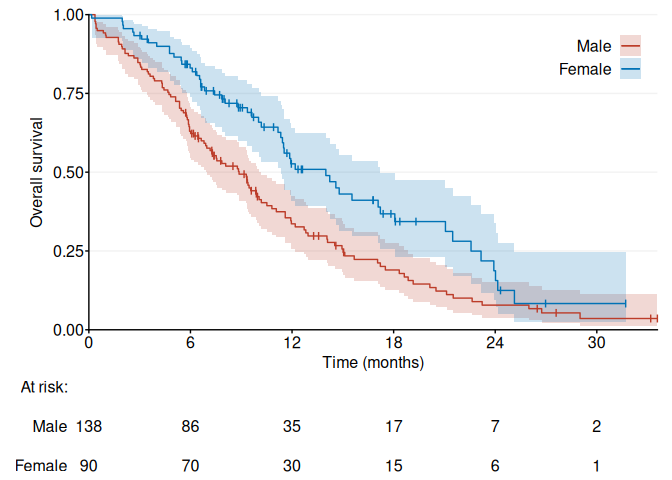
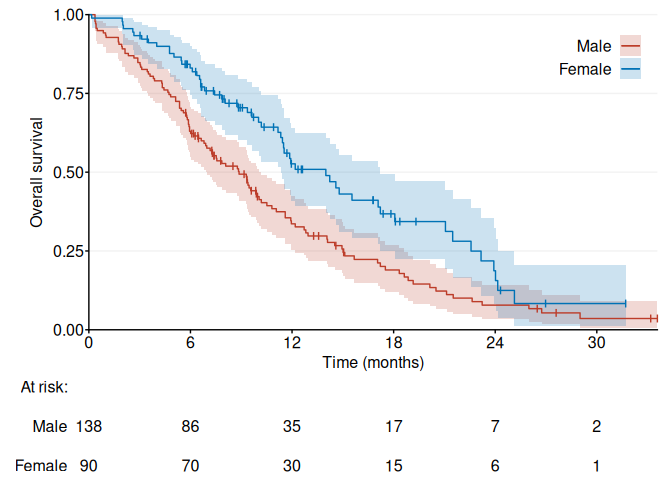
v0.11.0

diff --git a/docs/reference/ggKM.html b/docs/reference/ggKM.html
@@ -9,7 +9,7 @@ table."></head><body>
 
     <a class="navbar-brand me-2" href="../index.html">ggKaplanMeier</a>
 
-    <small class="nav-text text-muted me-auto" data-bs-toggle="tooltip" data-bs-placement="bottom" title="">0.10.1</small>
+    <small class="nav-text text-muted me-auto" data-bs-toggle="tooltip" data-bs-placement="bottom" title="">0.11.0</small>
 
 
     <button class="navbar-toggler" type="button" data-bs-toggle="collapse" data-bs-target="#navbar" aria-controls="navbar" aria-expanded="false" aria-label="Toggle navigation">
@@ -84,7 +84,7 @@ table.</p>
 
 
 <dt id="arg-status">status<a class="anchor" aria-label="anchor" href="#arg-status"></a></dt>
-<dd><p>Numeric event indicator (<code>1</code> = event, <code>0</code> = censored).</p></dd>
+<dd><p>Integer vector event indicator (<code>1</code> = event, <code>0</code> = censored).</p></dd>
 
 
 <dt id="arg-group">group<a class="anchor" aria-label="anchor" href="#arg-group"></a></dt>
@@ -101,7 +101,7 @@ table.</p>
 
 
 <dt id="arg-ci">CI<a class="anchor" aria-label="anchor" href="#arg-ci"></a></dt>
-<dd><p>String indicating the CI type:</p><ul><li><p><code>"none"</code>: none</p></li>
+<dd><p>String indicating the CI type (or a custom function; see Details):</p><ul><li><p><code>"none"</code>: none</p></li>
 <li><p>Pointwise confidence intervals:</p><ul><li><p><code>"cloglog"</code> (default): Greenwood's variance¹ with complementary
 log–log transformation²</p></li>
 <li><p><code>"modcloglog"</code>: <code>"cloglog"</code> with the lower confidence limit
@@ -238,6 +238,17 @@ between the risk table labels and the risk table. Default = <code>16</code>.</p>
     <p>A <code>ggplot</code> (+ <code>patchwork</code> if <code>risk.table</code> = <code>TRUE</code>) object.</p>
     </div>
     <div class="section level2">
+    <h2 id="details">Details<a class="anchor" aria-label="anchor" href="#details"></a></h2>
+    <p>A custom function passed to <code>CI</code> is called once per <code>group</code> in an environment
+containing the following variables:</p><ul><li><p><code>.time</code>: Numeric vector of follow-up times for the current <code>group</code></p></li>
+<li><p><code>.status</code>: Integer vector event indicator (<code>1</code> = event, <code>0</code> =
+censored) for the current <code>group</code></p></li>
+</ul><p>The custom function must return a <code>data.frame</code> with the following columns:</p><ul><li><p><code>$time</code>: unique event times</p></li>
+<li><p><code>$surv</code>: survival estimate</p></li>
+<li><p><code>$lower</code>: lower confidence limit</p></li>
+<li><p><code>$upper</code>: upper confidence limit</p></li>
+</ul></div>
+    <div class="section level2">
     <h2 id="references">References<a class="anchor" aria-label="anchor" href="#references"></a></h2>
 
 <ol><li><p>Greenwood, M., 1926. A report on the natural duration of cancer. In:
@@ -268,11 +279,23 @@ Association</em>, 92(437), pp. 215–226.</p></li>
     <div class="section level2">
     <h2 id="ref-examples">Examples<a class="anchor" aria-label="anchor" href="#ref-examples"></a></h2>
     <div class="sourceCode"><pre class="sourceCode r"><code><span class="r-in"><span><span class="va">data</span> <span class="op">&lt;-</span> <span class="fu">survival</span><span class="fu">::</span><span class="va"><a href="https://rdrr.io/pkg/survival/man/lung.html" class="external-link">lung</a></span></span></span>
-<span class="r-in"><span><span class="va">g</span> <span class="op">&lt;-</span> <span class="fu">ggKM</span><span class="op">(</span><span class="va">data</span><span class="op">$</span><span class="va">time</span> <span class="op">*</span> <span class="fl">12</span> <span class="op">/</span> <span class="fl">365.2425</span>, <span class="va">data</span><span class="op">$</span><span class="va">status</span> <span class="op">-</span> <span class="fl">1</span>, <span class="va">data</span><span class="op">$</span><span class="va">sex</span>, </span></span>
-<span class="r-in"><span>          breaks.t <span class="op">=</span> <span class="fu"><a href="https://rdrr.io/r/base/seq.html" class="external-link">seq</a></span><span class="op">(</span><span class="fl">0</span>, <span class="fl">30</span>, <span class="fl">6</span><span class="op">)</span>, legend.labels <span class="op">=</span> <span class="fu"><a href="https://rdrr.io/r/base/c.html" class="external-link">c</a></span><span class="op">(</span><span class="st">"Male"</span>, <span class="st">"Female"</span><span class="op">)</span>,</span></span>
-<span class="r-in"><span>          title.s <span class="op">=</span> <span class="st">"Overall survival"</span>, title.t <span class="op">=</span> <span class="st">"Time (months)"</span><span class="op">)</span></span></span>
-<span class="r-in"><span><span class="fu"><a href="https://rdrr.io/r/base/print.html" class="external-link">print</a></span><span class="op">(</span><span class="va">g</span><span class="op">)</span></span></span>
+<span class="r-in"><span><span class="va">fig1a</span> <span class="op">&lt;-</span> <span class="fu">ggKM</span><span class="op">(</span><span class="va">data</span><span class="op">$</span><span class="va">time</span> <span class="op">*</span> <span class="fl">12</span> <span class="op">/</span> <span class="fl">365.2425</span>, <span class="va">data</span><span class="op">$</span><span class="va">status</span> <span class="op">-</span> <span class="fl">1</span>, <span class="va">data</span><span class="op">$</span><span class="va">sex</span>, </span></span>
+<span class="r-in"><span>              breaks.t <span class="op">=</span> <span class="fu"><a href="https://rdrr.io/r/base/seq.html" class="external-link">seq</a></span><span class="op">(</span><span class="fl">0</span>, <span class="fl">30</span>, <span class="fl">6</span><span class="op">)</span>, legend.labels <span class="op">=</span> <span class="fu"><a href="https://rdrr.io/r/base/c.html" class="external-link">c</a></span><span class="op">(</span><span class="st">"Male"</span>, <span class="st">"Female"</span><span class="op">)</span>,</span></span>
+<span class="r-in"><span>              title.s <span class="op">=</span> <span class="st">"Overall survival"</span>, title.t <span class="op">=</span> <span class="st">"Time (months)"</span><span class="op">)</span></span></span>
+<span class="r-in"><span><span class="fu"><a href="https://rdrr.io/r/base/print.html" class="external-link">print</a></span><span class="op">(</span><span class="va">fig1a</span><span class="op">)</span></span></span>
 <span class="r-plt img"><img src="ggKM-1.png" alt="" width="700" height="433"></span>
+<span class="r-in"><span><span class="va">f.custom</span> <span class="op">&lt;-</span> <span class="kw">function</span><span class="op">(</span><span class="op">)</span> <span class="op">{</span></span></span>
+<span class="r-in"><span>  <span class="va">fit</span> <span class="op">&lt;-</span> <span class="fu">survival</span><span class="fu">::</span><span class="fu"><a href="https://rdrr.io/pkg/survival/man/survfit.html" class="external-link">survfit</a></span><span class="op">(</span><span class="fu">survival</span><span class="fu">::</span><span class="fu"><a href="https://rdrr.io/pkg/survival/man/Surv.html" class="external-link">Surv</a></span><span class="op">(</span><span class="va">.time</span>, <span class="va">.status</span><span class="op">)</span> <span class="op">~</span> <span class="fl">1</span>,  </span></span>
+<span class="r-in"><span>                           conf.type <span class="op">=</span> <span class="st">"arcsin"</span><span class="op">)</span></span></span>
+<span class="r-in"><span>  <span class="kw"><a href="https://rdrr.io/r/base/function.html" class="external-link">return</a></span><span class="op">(</span><span class="fu"><a href="https://rdrr.io/r/base/data.frame.html" class="external-link">data.frame</a></span><span class="op">(</span><span class="st">"time"</span> <span class="op">=</span> <span class="va">fit</span><span class="op">$</span><span class="va">time</span>, <span class="st">"surv"</span> <span class="op">=</span> <span class="va">fit</span><span class="op">$</span><span class="va">surv</span>, </span></span>
+<span class="r-in"><span>                    <span class="st">"lower"</span> <span class="op">=</span> <span class="va">fit</span><span class="op">$</span><span class="va">lower</span>, <span class="st">"upper"</span> <span class="op">=</span> <span class="va">fit</span><span class="op">$</span><span class="va">upper</span><span class="op">)</span><span class="op">)</span></span></span>
+<span class="r-in"><span><span class="op">}</span></span></span>
+<span class="r-in"><span><span class="va">fig1b</span> <span class="op">&lt;-</span> <span class="fu">ggKM</span><span class="op">(</span><span class="va">data</span><span class="op">$</span><span class="va">time</span> <span class="op">*</span> <span class="fl">12</span> <span class="op">/</span> <span class="fl">365.2425</span>, <span class="va">data</span><span class="op">$</span><span class="va">status</span> <span class="op">-</span> <span class="fl">1</span>, <span class="va">data</span><span class="op">$</span><span class="va">sex</span>, </span></span>
+<span class="r-in"><span>              breaks.t <span class="op">=</span> <span class="fu"><a href="https://rdrr.io/r/base/seq.html" class="external-link">seq</a></span><span class="op">(</span><span class="fl">0</span>, <span class="fl">30</span>, <span class="fl">6</span><span class="op">)</span>, legend.labels <span class="op">=</span> <span class="fu"><a href="https://rdrr.io/r/base/c.html" class="external-link">c</a></span><span class="op">(</span><span class="st">"Male"</span>, <span class="st">"Female"</span><span class="op">)</span>, </span></span>
+<span class="r-in"><span>              title.s <span class="op">=</span> <span class="st">"Overall survival"</span>, title.t <span class="op">=</span> <span class="st">"Time (months)"</span>, </span></span>
+<span class="r-in"><span>              CI <span class="op">=</span> <span class="va">f.custom</span><span class="op">)</span></span></span>
+<span class="r-in"><span><span class="fu"><a href="https://rdrr.io/r/base/print.html" class="external-link">print</a></span><span class="op">(</span><span class="va">fig1b</span><span class="op">)</span></span></span>
+<span class="r-plt img"><img src="ggKM-2.png" alt="" width="700" height="433"></span>
 </code></pre></div>
     </div>
   </main><aside class="col-md-3"><nav id="toc" aria-label="Table of contents"><h2>On this page</h2>

diff --git a/docs/index.html b/docs/index.html
@@ -96,7 +96,7 @@
 <span><span class="va">data</span> <span class="op">&lt;-</span> <span class="fu">survival</span><span class="fu">::</span><span class="va"><a href="https://rdrr.io/pkg/survival/man/lung.html" class="external-link">lung</a></span></span>
 <span><span class="va">f.custom</span> <span class="op">&lt;-</span> <span class="kw">function</span><span class="op">(</span><span class="op">)</span> <span class="op">{</span></span>
 <span>  <span class="va">fit</span> <span class="op">&lt;-</span> <span class="fu">survival</span><span class="fu">::</span><span class="fu"><a href="https://rdrr.io/pkg/survival/man/survfit.html" class="external-link">survfit</a></span><span class="op">(</span><span class="fu">survival</span><span class="fu">::</span><span class="fu"><a href="https://rdrr.io/pkg/survival/man/Surv.html" class="external-link">Surv</a></span><span class="op">(</span><span class="va">.time</span>, <span class="va">.status</span><span class="op">)</span> <span class="op">~</span> <span class="fl">1</span>, </span>
-<span>                           conf.type <span class="op">=</span> <span class="st">"logit"</span><span class="op">)</span></span>
+<span>                           conf.type <span class="op">=</span> <span class="st">"arcsin"</span><span class="op">)</span></span>
 <span>  <span class="kw"><a href="https://rdrr.io/r/base/function.html" class="external-link">return</a></span><span class="op">(</span><span class="fu"><a href="https://rdrr.io/r/base/data.frame.html" class="external-link">data.frame</a></span><span class="op">(</span><span class="st">"time"</span> <span class="op">=</span> <span class="va">fit</span><span class="op">$</span><span class="va">time</span>, <span class="st">"surv"</span> <span class="op">=</span> <span class="va">fit</span><span class="op">$</span><span class="va">surv</span>, </span>
 <span>                    <span class="st">"lower"</span> <span class="op">=</span> <span class="va">fit</span><span class="op">$</span><span class="va">lower</span>, <span class="st">"upper"</span> <span class="op">=</span> <span class="va">fit</span><span class="op">$</span><span class="va">upper</span><span class="op">)</span><span class="op">)</span></span>
 <span><span class="op">}</span></span>

diff --git a/README.md b/README.md
@@ -67,7 +67,7 @@ library(ggKaplanMeier)
 data <- survival::lung
 f.custom <- function() {
   fit <- survival::survfit(survival::Surv(.time, .status) ~ 1, 
-                           conf.type = "logit")
+                           conf.type = "arcsin")
   return(data.frame("time" = fit$time, "surv" = fit$surv, 
                     "lower" = fit$lower, "upper" = fit$upper))
 }
